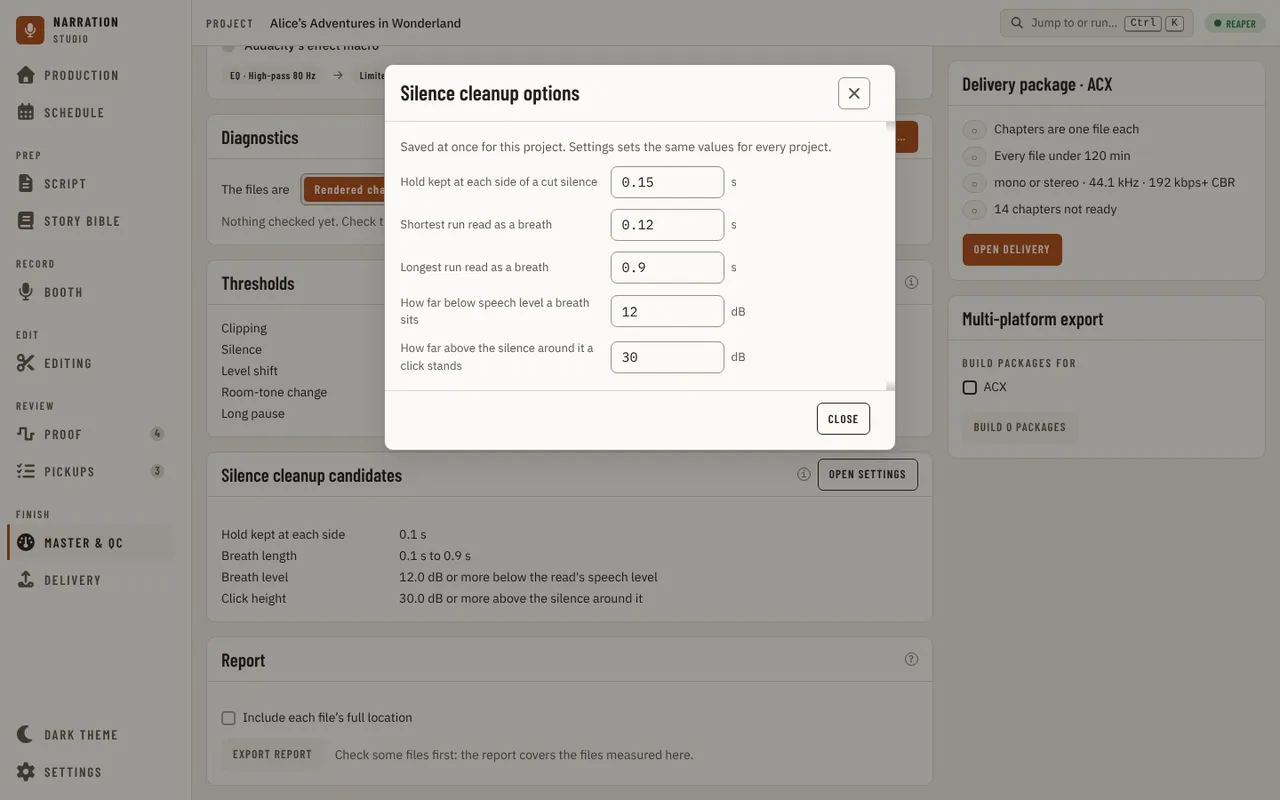
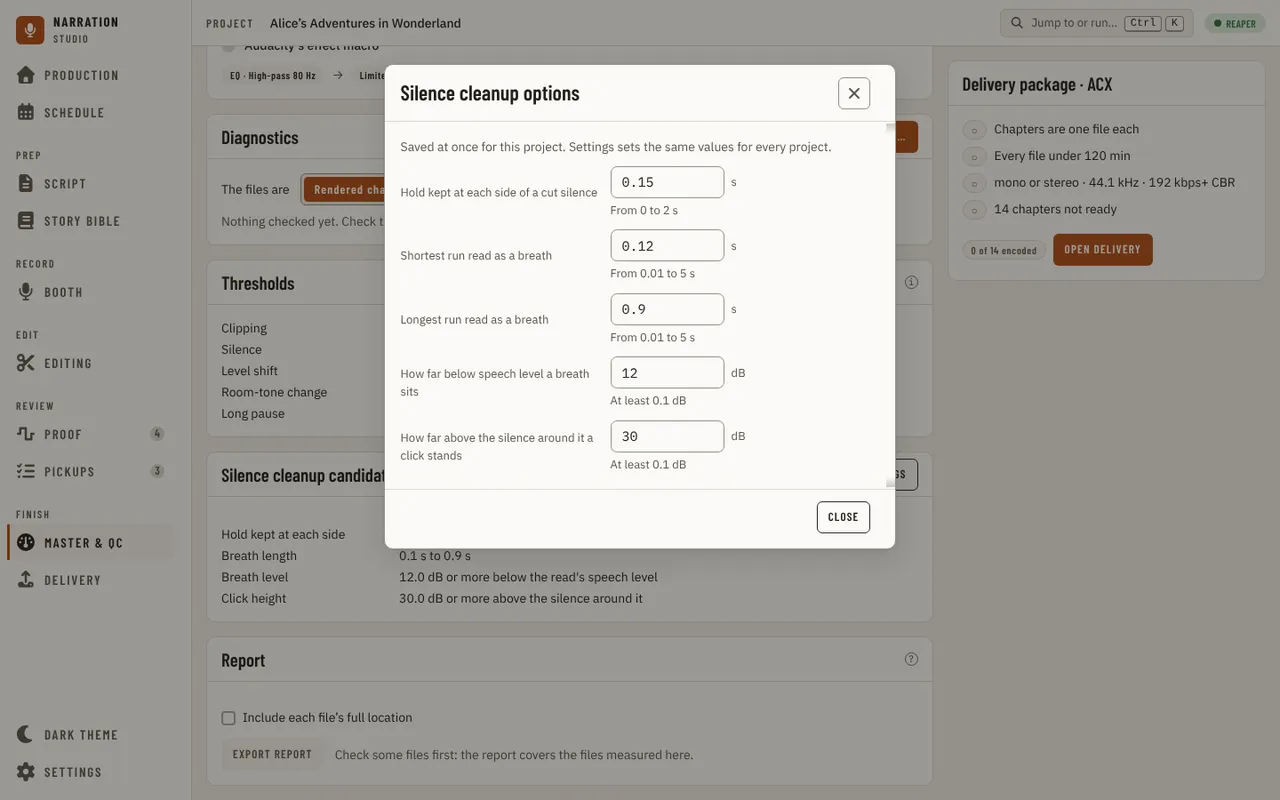
feat(ui): options dialogs say the range under a number box
A number typed past its limit is saved as the limit, so the dialog says what the limit is, the
way the Settings row does: the same muted note under the box, tied to it with aria-describedby.
The guide text and the two guide images that show these dialogs say so too.

Refs #3681

Claude-Session: https://claude.ai/code/session_01EBTykdyHQKJiBy2zWotzvB

diff --git a/src/studio/ui/src/components/proof/proofOptions/ProofOptions.tsx b/src/studio/ui/src/components/proof/proofOptions/ProofOptions.tsx
@@ -1,4 +1,4 @@
-import { useCallback, useState, type ReactNode } from 'react';
+import { useCallback, useId, useState, type ReactNode } from 'react';
 import { useErrorToast } from '../../../hooks/useErrorToast';
 import { useCommandProvider } from '../../../input/commandProviders';
 import { Button } from '../../primitives/Button';
@@ -7,6 +7,7 @@ import { Dialog } from '../../primitives/Dialog';
 import { IconButton } from '../../primitives/IconButton';
 import { Select } from '../../primitives/Select';
 import { Switch } from '../../primitives/Switch';
+import { describeNumberRange } from '../../settings/numberSetting';
 import { SettingNumber } from '../../settings/value/SettingNumber';
 import type { ScopedSettingField } from '../../../types';
 import { proofingChoiceLabel } from '../options';
@@ -14,18 +15,29 @@ import { useProjectOptions } from './useProjectOptions';
 
 function Row({ field, onSet }: { field: ScopedSettingField; onSet: (key: string, value: string | null) => Promise<boolean> }) {
   const range = field.number;
+  const noteId = useId();
+  // The range note under the box, as in Settings (CS-N1): a typed number past it becomes the limit, and this says what the limit is.
+  const rangeNote = range ? describeNumberRange(range) : '';
   const control =
     field.kind === 'number' && range ? (
-      // Saved when the narrator settles on it, never per key; an emptied box hands the setting back, as Reset does.
-      <SettingNumber
-        label={field.label}
-        className="max-w-[8rem]"
-        value={field.effectiveValue}
-        range={range}
-        commit="settle"
-        allowEmpty
-        onChange={(value) => onSet(field.key, value === '' ? null : value)}
-      />
+      <span className="flex flex-col gap-1">
+        {/* Saved when the narrator settles on it, never per key; an emptied box hands the setting back, as Reset does. */}
+        <SettingNumber
+          label={field.label}
+          className="max-w-[8rem]"
+          value={field.effectiveValue}
+          range={range}
+          commit="settle"
+          allowEmpty
+          describedBy={rangeNote ? noteId : undefined}
+          onChange={(value) => onSet(field.key, value === '' ? null : value)}
+        />
+        {rangeNote && (
+          <span id={noteId} className="text-[0.8125rem] text-[var(--text-muted)]">
+            {rangeNote}
+          </span>
+        )}
+      </span>
     ) : field.kind === 'choice' ? (
       <Select
         label={field.label}

diff --git a/src/studio/ui/src/components/proof/proofOptions/proofOptions.test.tsx b/src/studio/ui/src/components/proof/proofOptions/proofOptions.test.tsx
@@ -120,6 +120,15 @@ describe('Proof options', () => {
     await waitFor(() => expect(save).toHaveBeenCalledWith('Demo', 'project', { target: '3600' }));
   });
 
+  // ux-reviewer (#4009): 99999 silently became 3600 with nothing in the dialog saying what the limit is.
+  it('says the range under a number box and ties it to the box, as Settings does', async () => {
+    const { open } = mount();
+    await open();
+    const box = await screen.findByRole('textbox', { name: 'Target length (seconds)' });
+    const note = screen.getByText('From 60 to 3600 s');
+    expect(box.getAttribute('aria-describedby')?.split(' ')).toContain(note.id);
+  });
+
   it('saves a colour as six hex digits without the hash, in capitals, and keeps text that is not a colour in the box, unsaved and marked', async () => {
     const { save, open } = mount();
     await open();

diff --git a/docs/guides/using-the-app/production.md b/docs/guides/using-the-app/production.md
@@ -249,7 +249,7 @@ A changed chapter can also be re-checked on its own, in the background, once REA
 is not otherwise busy (**Check changed chapters in the background**, in Settings, or for this project in Production's **Open
 Recording check rules**); starting a check yourself always pre-empts it.
 
-On Production, **Jump to or run** (Ctrl+K) has **Open Recording check rules**: a dialog with what the check judges a chapter by, for this project: **Share of each paragraph that must be read**, **Longest run of missing words allowed**, **Longest misread still counted as read**, **Shortest match that counts as read** and **Check changed chapters in the background**. They are proposed values, chosen on synthetic recordings and not yet calibrated on real narration. A change is saved at once and the last check is read again; the first two only change how a stored check is judged, but the next two change which words count, so earlier checks read as out of date and those chapters need checking again. **Reset** hands a rule back to the computer-wide value or the default. Settings, **Recording check rules** under Speech to text, has these rules with a **Global** / **This project** switch, and also the crossover between neighbouring chunks, how many chapters are checked at once and whether passages Whisper is unsure of are re-checked: one store, two ways to reach it.
+On Production, **Jump to or run** (Ctrl+K) has **Open Recording check rules**: a dialog with what the check judges a chapter by, for this project: **Share of each paragraph that must be read**, **Longest run of missing words allowed**, **Longest misread still counted as read**, **Shortest match that counts as read** and **Check changed chapters in the background**. They are proposed values, chosen on synthetic recordings and not yet calibrated on real narration. Each number box has its range under it, and a number outside the range becomes the nearest allowed value. A change is saved at once and the last check is read again; the first two only change how a stored check is judged, but the next two change which words count, so earlier checks read as out of date and those chapters need checking again. **Reset** hands a rule back to the computer-wide value or the default. Settings, **Recording check rules** under Speech to text, has these rules with a **Global** / **This project** switch, and also the crossover between neighbouring chunks, how many chapters are checked at once and whether passages Whisper is unsure of are re-checked: one store, two ways to reach it.
 
 ![Production - the Recording check rules dialog opened from Jump to or run](../../images/ui/production-recording-check-rules.webp)
 

diff --git a/docs/guides/using-the-app/proof.md b/docs/guides/using-the-app/proof.md
@@ -412,7 +412,7 @@ manuscript it offers **Open Production** to import one, and a failed read offers
 in the manuscript reader, or copy its range and length to paste elsewhere; neither changes anything — a
 suggestion is recomputed fresh every time you visit the page, never applied, exported or stored.
 
-**Jump to or run** (Ctrl+K) has **Open Preview options**, which sets how the suggestions are made for this project: the target length, the tolerance around it, the preset (**Sample** or **Spot check**) and how much of each chapter's ending to leave out. A choice is saved at once and a number when you press Enter or leave its box (one outside its range becomes the nearest allowed value; an emptied box hands the number back, as its reset button does), and the suggestions are computed again; the reset button on a line (the undo icon) hands that setting back to the computer-wide value or the default.
+**Jump to or run** (Ctrl+K) has **Open Preview options**, which sets how the suggestions are made for this project: the target length, the tolerance around it, the preset (**Sample** or **Spot check**) and how much of each chapter's ending to leave out. A choice is saved at once and a number when you press Enter or leave its box (the range is written under the box, such as "From 60 to 3600 s", and a number outside it becomes the nearest allowed value; an emptied box hands the number back, as its reset button does), and the suggestions are computed again; the reset button on a line (the undo icon) hands that setting back to the computer-wide value or the default.
 
 ![Proof chapter view - the Preview panel suggesting three candidate excerpts from the manuscript](../../images/ui/proof-chapter-preview.webp)
 

diff --git a/docs/guides/using-the-app/master-and-qc.md b/docs/guides/using-the-app/master-and-qc.md
@@ -242,7 +242,7 @@ each file, each a candidate to cut. Nothing is cut from here. The values the che
 candidates. Their thresholds are set in Settings, under Recording & DAW, in Editing checks; **Open Settings**, at the top of the card, goes there. For this project
 only, **Jump to or run** (Ctrl+K) has **Open Silence cleanup options**, a dialog with the hold kept at each side of a
 cut silence, the shortest and longest run read as a breath, how far below the speech level a breath sits and how far
-above the silence around it a click stands. A change is saved at once and applies to the next check, not to the
+above the silence around it a click stands. Each box has its range under it, and a number outside the range becomes the nearest allowed value. A change is saved at once and applies to the next check, not to the
 one on screen; **Reset** on a changed setting hands it back to the computer-wide value or the default.
 
 ![Master & QC, Diagnostics - the Silence cleanup options dialog opened from Jump to or run](../../images/ui/master-cleanup-options.webp)
